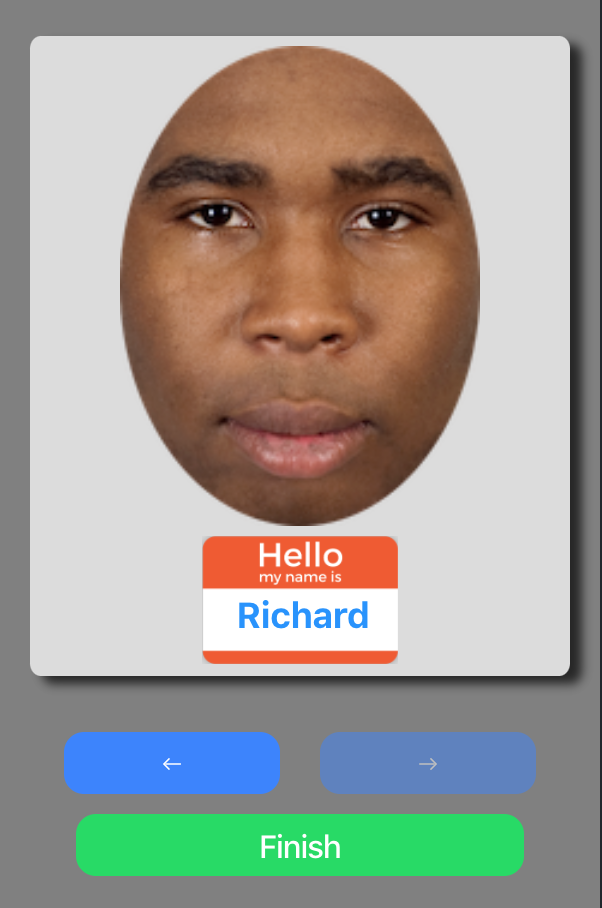
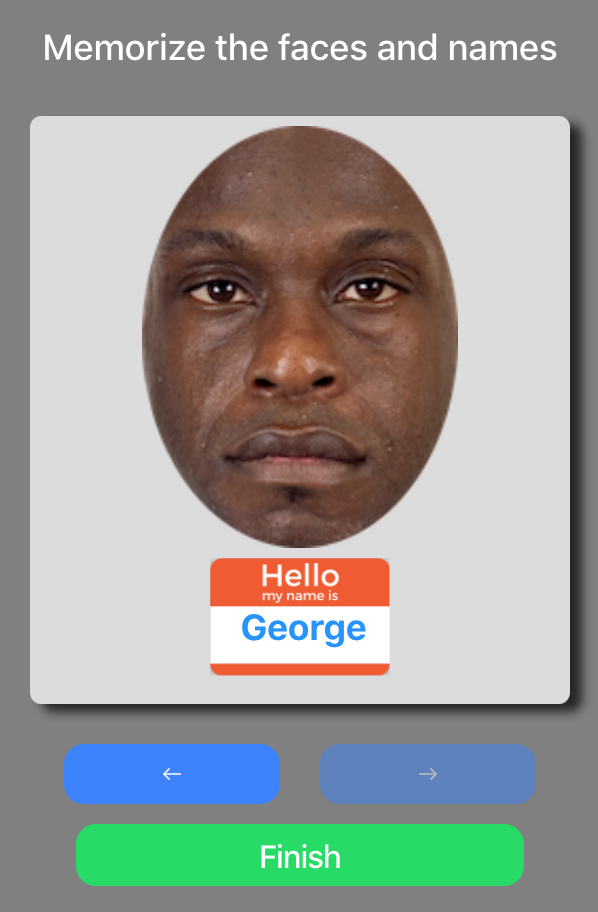
center text and add more graphics

diff --git a/front-end/src/app/help-modal/help-modal.component.ts b/front-end/src/app/help-modal/help-modal.component.ts
@@ -4,6 +4,15 @@ import { ModalController, NavParams } from '@ionic/angular';
 enum Task { LEARNING, NAME_FACE, WHOS_NEW, MEMORY, SHUFFLE, FORCED_CHOICE, SAME_DIFFERENT }
 
 const slideValues = {
+  'Start': [
+    ['assets/help-slides/start/0.png', 'Welcome to your CRD training. Please take a minute to review these slides and familiarize yourself with the training process.'],
+    ['assets/help-slides/start/1.png', 'There are eight levels to progress through, each more difficult than the last. You should complete one level per day.'],
+    ['assets/help-slides/start/2.png', 'Before the first level and after the last level you will complete an assessment to judge how much you have progressed.'],
+    ['assets/help-slides/start/3.png', 'For each level you will complete a learning task to familiarize yourself with the day\'s faces, then four training tasks.'],
+    ['assets/help-slides/start/4.png', 'After the training tasks are passed, you will complete two assessment tasks to judge your progress. Your level will increase after the assessment.'],
+    ['assets/help-slides/start/5.png', 'If you have questions about how to complete a task or what to do next, you can click the help icon in the upper-right corner.'],
+    ['assets/help-slides/start/6.png', 'Your data will be used to further research of CRD and facial recognition. For more information about the research visit the About Us page.']
+  ],
   'Meet Today\'s Faces': [
     ['assets/help-slides/learning/0.png', 'Memorize the eight name-face pairs you are shown, as they will be the basis of your daily training.'],
     ['assets/help-slides/learning/1.png', 'When you have seen all eight, you can click \'Finish\' to move on to the training. You can come back to this module at any time.']
@@ -24,9 +33,36 @@ const slideValues = {
     ['assets/help-slides/memory-match/2.png', 'After the timer is up, click the cards to match the pairs.'],
     ['assets/help-slides/memory-match/3.png', 'When you correctly match a pair, they will be revealed. For incorrect matches you will be deducted a small amount from your score.']
   ],
-  'Shuffle': [['assets/help-slides/learning/0.png', 'caption0'], ['assets/help-slides/learning/1.png', 'caption1']],
-  'Forced Choice': [['assets/help-slides/learning/0.png', 'caption0'], ['assets/help-slides/learning/1.png', 'caption1']],
-  'Same-Different': [['assets/help-slides/learning/0.png', 'caption0'], ['assets/help-slides/learning/1.png', 'caption1']]
+  'Shuffle': [
+    ['assets/help-slides/shuffle/0.png', 'Click \'Reveal\' to show the faces and begin the timer.'],
+    ['assets/help-slides/shuffle/1.png', 'You will have 10 seconds to memorize the placement of the faces.'],
+    ['assets/help-slides/shuffle/2.png', 'After the timer is up, click cards to swap their positions. Click \'Done\' when you think the positions are correct.'],
+    ['assets/help-slides/shuffle/3.png', 'For an incorrect solution, incorrect cards will be colored red. You will be deducted a small amount for each incorrect card.'],
+    ['assets/help-slides/shuffle/4.png', 'You can toggle between your solution and the correct solution with the toggle at the bottom left corner.']
+  ],
+  'Forced Choice': [
+    ['assets/help-slides/forced-choice/0.png', 'Click \'Reveal\' to show the face and begin the timer.'],
+    ['assets/help-slides/forced-choice/1.png', 'You will have 3 seconds to memorize the face.'],
+    ['assets/help-slides/forced-choice/2.png', 'After the timer is up select the face that you saw.'],
+    ['assets/help-slides/forced-choice/3.png', 'You will be given feedback based on your selection.']
+  ],
+  'Same-Different': [
+    ['assets/help-slides/same-different/0.png', 'Click \'Reveal\' to show the face and begin the timer.'],
+    ['assets/help-slides/same-different/1.png', 'You will have 3 seconds to memorize the face.'],
+    ['assets/help-slides/same-different/2.png', 'After the timer is up, decide whether the face is the same.'],
+    ['assets/help-slides/same-different/3.png', 'You will be given feedback based on your selection.']
+  ],
+  'Training Tasks': [
+    ['assets/help-slides/training/0.png', 'Welcome to your training tasks. You can revisit the learning task at any time with this button, and however many times you need.'],
+    ['assets/help-slides/training/1.png', 'When you complete a task, the color will indicate whether you received a passing score. You must get at least 6/8 to pass each, and can do them any number of times.'],
+    ['assets/help-slides/training/2.png', 'When you have passed each task, you will be able to move on to the assessment tasks with this button. You will not be able to navigate back after moving on.']
+  ],
+  'Assessment Tasks': [
+    ['assets/help-slides/assessment/0.png', 'You must complete these two assessment tasks each day, as they will be the primary way your progress is tracked. You cannot redo or restart them.']
+  ],
+  'Finish': [
+    ['assets/help-slides/start/4.png', 'You are done for the day, and you have progressed to the next level! Come back tomorrow for your next training. You can see your training history on the history page.']
+  ]
 }
 
 @Component({
@@ -41,9 +77,6 @@ export class HelpModalComponent implements OnInit {
   ngOnInit() {
     this.slides = slideValues[this.navParams.data.paramTask];
   }
-
-  Task = Task;
-  task : Task;
 
   slides : string[][];
   currentSlide : number = 0;

diff --git a/front-end/src/app/same-different/same-different.component.html b/front-end/src/app/same-different/same-different.component.html
@@ -11,11 +11,10 @@
     <h3 *ngIf="stage == Stage.CORRECT">Correct!</h3>
     <h3 *ngIf="stage == Stage.INCORRECT">Incorrect!</h3>
     <ion-card>
-      <img *ngIf="stage != Stage.START" [src]="getSrc()" style="height: 270px; margin: 20px auto" [ngStyle]="{'width': stage == Stage.MASK ? '85%' : '190px'}"/><!--[ngStyle]="{'width': stage == Stage.MASK ? '80%' : '190px'}"-->
+      <img *ngIf="stage != Stage.START" [src]="getSrc()" style="height: 270px; margin: 20px auto" [ngStyle]="{'width': stage == Stage.MASK ? '85%' : '190px'}"/>
     </ion-card>
 
     <ion-button *ngIf="stage == Stage.START" style="width:130px" (click)="startMemorizeTimer()">Reveal</ion-button>
-    <ion-button *ngIf="stage == Stage.MEMORIZE" style="width:130px" disabled>Reveal</ion-button>
     <ion-button *ngIf="stage == Stage.SELECT" style="width:130px" (click)="selectFace(false)" color="danger">No</ion-button>
     <ion-button *ngIf="stage == Stage.SELECT" style="width:130px" (click)="selectFace(true)" color="success">Yes</ion-button>
     <ion-button *ngIf="showFeedback()" style="width:130px" (click)="clickNext()">Next</ion-button>

diff --git a/front-end/src/app/help-modal/help-modal.component.html b/front-end/src/app/help-modal/help-modal.component.html
@@ -3,13 +3,14 @@
     <ion-label>
       <b>{{navParams.data.paramTask}}</b>
     </ion-label>
+    <ion-icon slot="start" color="dark" name="close" style="visibility: hidden"></ion-icon>
     <ion-icon slot="end" color="dark" name="close" style="margin-right: 10px; cursor: pointer; font-size: 200%" (click)="closeModal()"></ion-icon>
   </ion-item>
   <ion-card style="margin-top: 5px; text-align: center; height: 400px">
     <div *ngFor="let slide of slides; let i = index">
-      <div *ngIf="currentSlide == i" style="margin-top: 10px">
-        <img [src]="slide[0]" style="height: 225px; width: 150px; margin: 0 auto;">
-        <ion-card-content *ngIf="currentSlide == i" style="color: white;">{{slide[1]}}</ion-card-content>
+      <div *ngIf="currentSlide == i" style="margin-top: 20px">
+        <img [src]="slide[0]">
+        <div style="display: flex; align-items: center; height: 125px; color: white; margin: 20px; font-size: 120%">{{slide[1]}}</div>
       </div>
     </div>
   </ion-card>

diff --git a/front-end/src/app/training/training.page.html b/front-end/src/app/training/training.page.html
@@ -19,6 +19,8 @@
       <h5>Are you ready to train?</h5>
       <br>
       <ion-button color="success" style="width: 130px" (click)="task = Task.LEARNING">Start</ion-button>
+      <br>
+      <ion-button style="width: 150px" (click)="getHelp()">How's it Work?</ion-button>
     </div>
 
     <!--Learning tasks-->
@@ -75,8 +77,8 @@
 
     <!--All tasks finished-->
     <div *ngIf="stage == Stage.DONE" style="margin-top: 160px">
-      <h1><b>Done!</b></h1>
-      <h5 style="margin: 20px">Come back tomorrow for your next training.</h5>
+      <h1><b>Done</b></h1>
+      <h5 style="margin: 20px">You've moved on to the next level! Come back tomorrow for your next training.</h5>
       <ion-button color="success" style="width: 130px" routerLink="/dashboard" routerDirection="forward">Home</ion-button>
     </div>
   </div>

diff --git a/front-end/src/app/training/training.page.ts b/front-end/src/app/training/training.page.ts
@@ -120,22 +120,13 @@ export class TrainingPage {
   }
 
   async getHelp() {
-    if (this.task == null) {
-      const alert = await this.alertController.create({
-        header: this.getMessage(0),
-        message: this.getMessage(1),
-        buttons: ['OK']
-      });
-      await alert.present(); 
-    } else {
-      const modal = await this.modalController.create({
-        component: HelpModalComponent,
-        componentProps: {
-          "paramTask": this.getMessage(0),
-        }
-      });
-      await modal.present();
-    }
+    const modal = await this.modalController.create({
+      component: HelpModalComponent,
+      componentProps: {
+        "paramTask": this.getMessage(0),
+      }
+    });
+    await modal.present();
   }
 
   //getTrainingFaces() {}

diff --git a/front-end/src/app/learning-task/learning-task.component.html b/front-end/src/app/learning-task/learning-task.component.html
@@ -1,5 +1,6 @@
 <ion-content id="learningView">
 	<ion-progress-bar style="margin-top: 0px" value={{progressPercent}}></ion-progress-bar>
+	<h5 style="color: white; text-align: center">Memorize the faces and names</h5>
 	<ion-card>
 		<div class="imgContainer" style="margin-top:5px">
 			<img [src]="currentFace" id=faceImg>
@@ -10,7 +11,7 @@
 			</div>
 		</div>
 	</ion-card>
-	<ion-grid style="margin-top: 13px">
+	<ion-grid>
 		<ion-row>
 			<ion-col width-50 style="text-align: right">
 				<ion-button (click)="changeCard('back')" *ngIf="progress>0">

diff --git a/front-end/src/app/forced-choice/forced-choice.component.html b/front-end/src/app/forced-choice/forced-choice.component.html
@@ -61,7 +61,6 @@
     <!--Next Buttons-->
     <div style="text-align: center; margin-bottom: 15px">
       <ion-button *ngIf="stage == Stage.START" style="width:130px" (click)="startMemorizeTimer()">Reveal</ion-button>
-      <ion-button *ngIf="stage == Stage.MEMORIZE" style="width:130px" disabled>Reveal</ion-button>
       <ion-button *ngIf="stage == Stage.SELECT" style="width:130px" disabled>Next</ion-button>
       <ion-button *ngIf="showFeedback()" style="width:130px" (click)="nextFace()">Next</ion-button>
     </div>

diff --git a/front-end/src/app/training/training.module.ts b/front-end/src/app/training/training.module.ts
@@ -31,13 +31,9 @@ import { HelpModalComponent } from '../help-modal/help-modal.component';
     ShuffleComponent,
     ForcedChoiceComponent,
     SameDifferentComponent,
-<<<<<<< HEAD
-    ScorePageComponent
-  ]
-=======
+    ScorePageComponent,
     HelpModalComponent
   ],
   entryComponents: [HelpModalComponent]
->>>>>>> learning
 })
 export class TrainingPageModule {}

diff --git a/front-end/src/app/learning-task/learning-task.component.scss b/front-end/src/app/learning-task/learning-task.component.scss
@@ -5,7 +5,7 @@
 
 ion-card {
 	width: 90%;
-	height: 60%;
+	height: 55%;
 	text-align: center;
 	border-radius: 2%;
 	box-shadow: 6px 4px 5px rgba(0, 0, 0, 0.7);
@@ -38,7 +38,7 @@ ion-icon {
 }
 
 .imgContainer {
-	height: 75%;
+	height: 72%;
 	width: 100%;
 	text-align: center !important;
 }

diff --git a/front-end/src/app/help-modal/help-modal.component.scss b/front-end/src/app/help-modal/help-modal.component.scss
@@ -6,3 +6,9 @@ div {
     color: white;
     text-align: center;
 }
+
+img {
+    height: 225px;
+    margin: 0 auto;
+    width: auto;
+}
